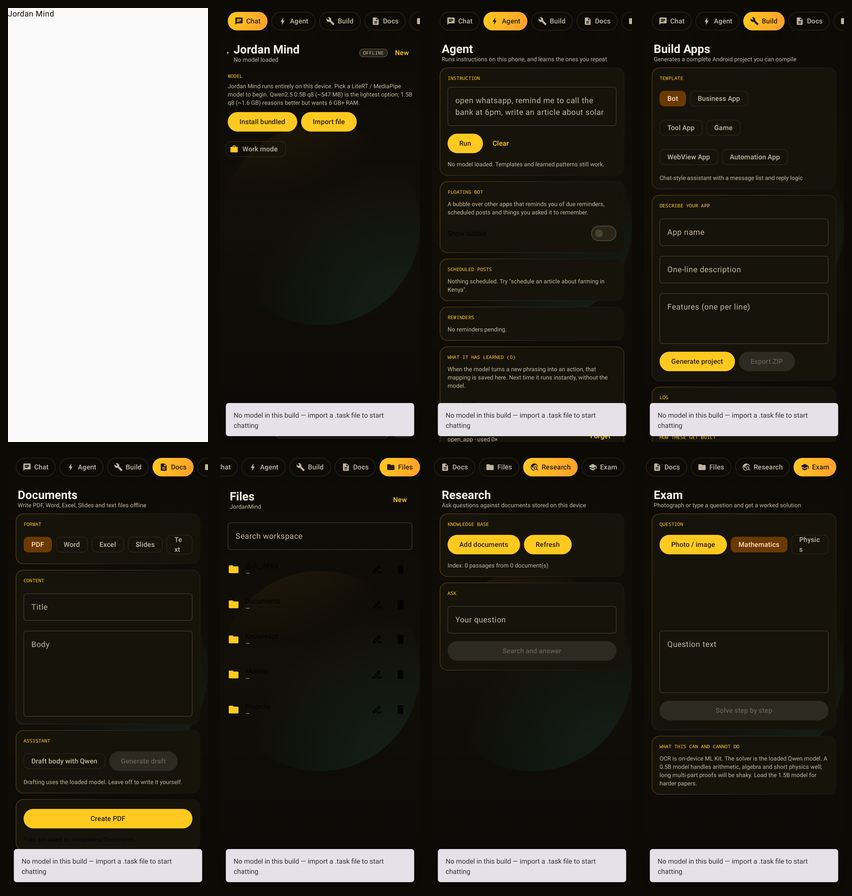
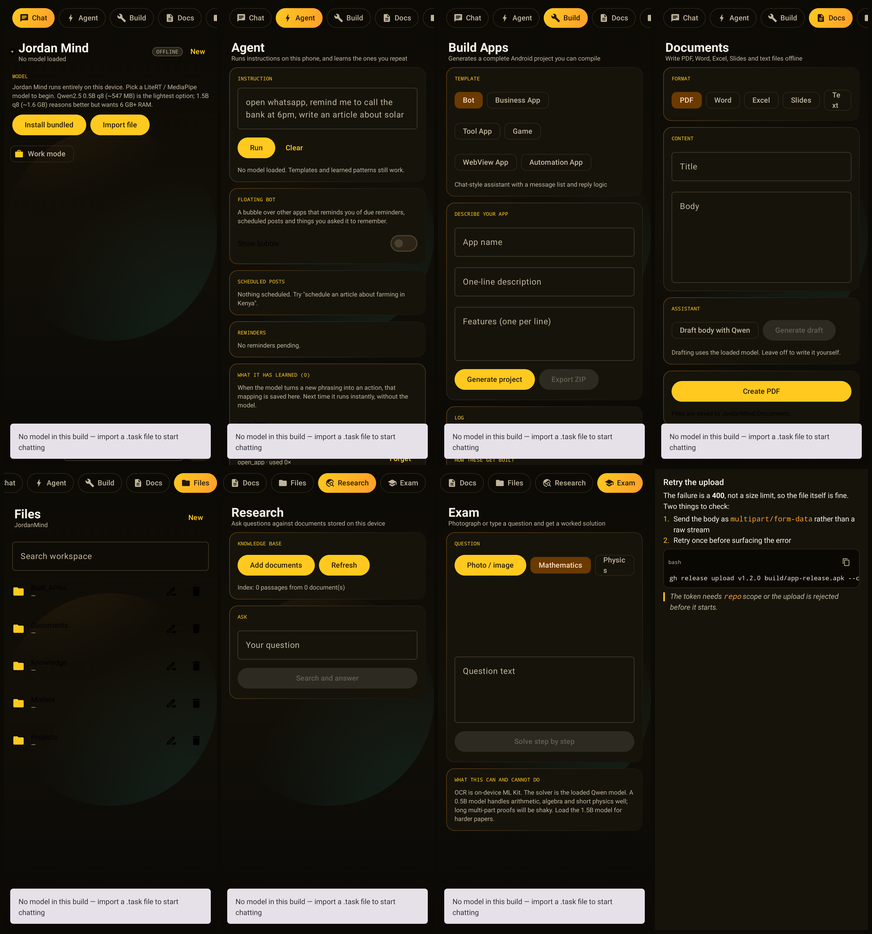
Make the overview grid reproducible and include the Markdown tile
The grid was stitched by hand, so it could not be regenerated when the
screenshots changed. build-overview.py now does it and picks up the new
08-markdown capture.

diff --git a/docs/screenshots/build-overview.py b/docs/screenshots/build-overview.py
@@ -1,0 +1,64 @@
+#!/usr/bin/env python3
+"""Builds docs/screenshots/android-overview.png from the per-tab captures.
+
+The individual screenshots come from ScreenshotTest; this stitches them into the
+one image the README and the release notes embed. Run it after regenerating
+screenshots:
+
+    ./gradlew :app:testDebugUnitTest --tests "com.jordanmind.agent.ScreenshotTest"
+    python3 docs/screenshots/build-overview.py
+"""
+from pathlib import Path
+
+from PIL import Image
+
+HERE = Path(__file__).resolve().parent
+ANDROID = HERE / "android"
+OUT = HERE / "android-overview.png"
+
+# Order matters: this is the order a reader scans the grid in.
+SHOTS = [
+    ("01-chat", "Chat"),
+    ("02-agent", "Agent"),
+    ("03-build", "Build"),
+    ("04-docs", "Docs"),
+    ("05-files", "Files"),
+    ("06-research", "Research"),
+    ("07-exam", "Exam"),
+    ("08-markdown", "Markdown"),
+]
+
+COLUMNS = 4
+CELL_W = 213
+PAD = 4
+
+
+def main() -> None:
+    tiles = []
+    for stem, _ in SHOTS:
+        path = ANDROID / f"{stem}.png"
+        if not path.exists():
+            raise SystemExit(f"missing {path}; run ScreenshotTest first")
+        image = Image.open(path).convert("RGB")
+        ratio = CELL_W / image.width
+        tiles.append(image.resize((CELL_W, max(1, int(image.height * ratio))), Image.LANCZOS))
+
+    cell_h = max(tile.height for tile in tiles)
+    rows = (len(tiles) + COLUMNS - 1) // COLUMNS
+    width = COLUMNS * CELL_W + (COLUMNS + 1) * PAD
+    height = rows * cell_h + (rows + 1) * PAD
+
+    canvas = Image.new("RGB", (width, height), (12, 10, 5))
+    for index, tile in enumerate(tiles):
+        column, row = index % COLUMNS, index // COLUMNS
+        canvas.paste(
+            tile,
+            (PAD + column * (CELL_W + PAD), PAD + row * (cell_h + PAD)),
+        )
+
+    canvas.save(OUT, optimize=True)
+    print(f"wrote {OUT} ({canvas.width}x{canvas.height}, {len(tiles)} tiles)")
+
+
+if __name__ == "__main__":
+    main()
